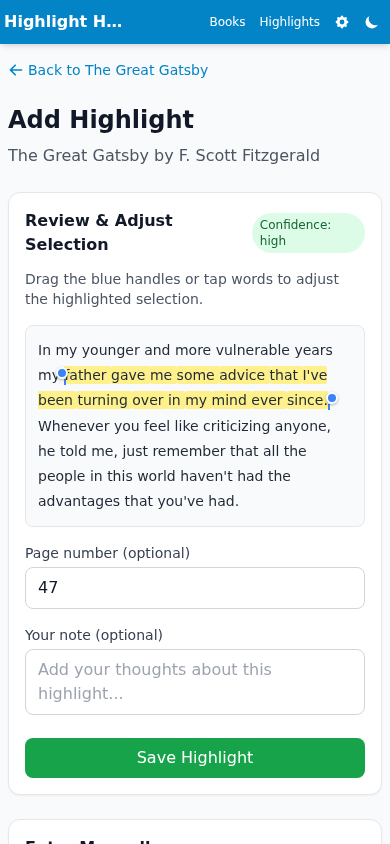
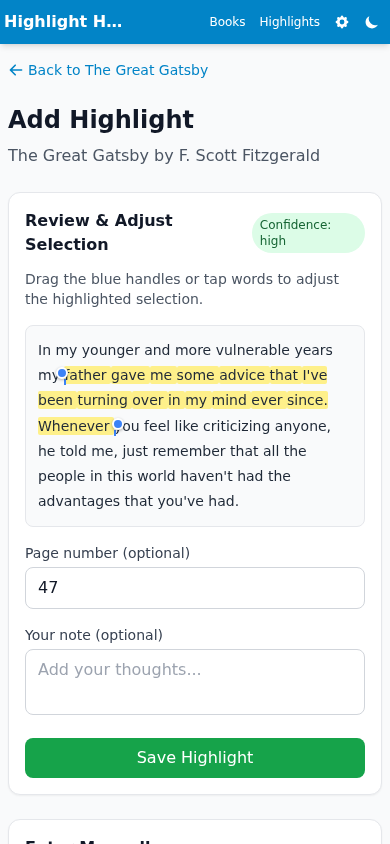
fix: Use requestAnimationFrame for handle positioning
The handles weren't being positioned correctly because positionHandles()
was called before the browser completed layout, causing getBoundingClientRect()
to return zeros. Now uses requestAnimationFrame to defer positioning until
after layout, with automatic retry if dimensions are still zero.

diff --git a/static/js/highlight-editor.js b/static/js/highlight-editor.js
@@ -64,8 +64,23 @@
   container.appendChild(startHandle);
   container.appendChild(endHandle);
 
-  // Apply initial highlight
-  updateHighlight();
+  // Apply initial highlight (CSS classes only, not positioning)
+  wordSpans.forEach(function (span, idx) {
+    if (idx >= selStart && idx <= selEnd) {
+      span.classList.add("highlighted");
+    } else {
+      span.classList.remove("highlighted");
+    }
+  });
+
+  // Update hidden input with selected text
+  var selectedWords = words.slice(selStart, selEnd + 1).map(function (w) {
+    return w.text;
+  });
+  hiddenInput.value = selectedWords.join(" ");
+
+  // Position handles AFTER browser completes layout
+  requestAnimationFrame(positionHandles);
 
   function createHandle(type) {
     const handle = document.createElement("div");
@@ -104,6 +119,12 @@
     const containerRect = container.getBoundingClientRect();
     const startRect = startSpan.getBoundingClientRect();
     const endRect = endSpan.getBoundingClientRect();
+
+    // Check if rects are valid (non-zero), retry if layout not ready
+    if (startRect.height === 0 || containerRect.width === 0) {
+      requestAnimationFrame(positionHandles);
+      return;
+    }
 
     // Start handle: left edge of first selected word
     startHandle.style.left = (startRect.left - containerRect.left - 6) + "px";
